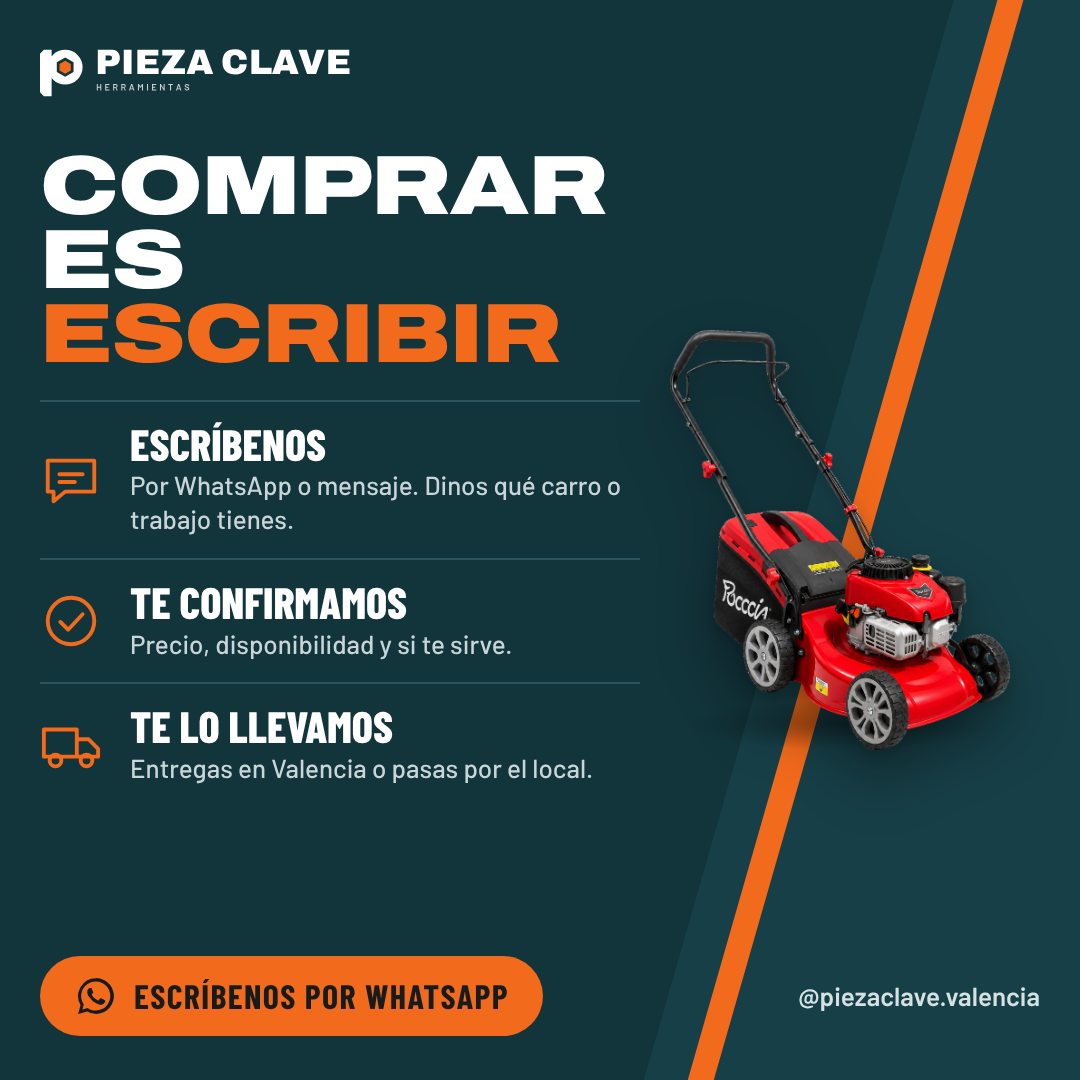
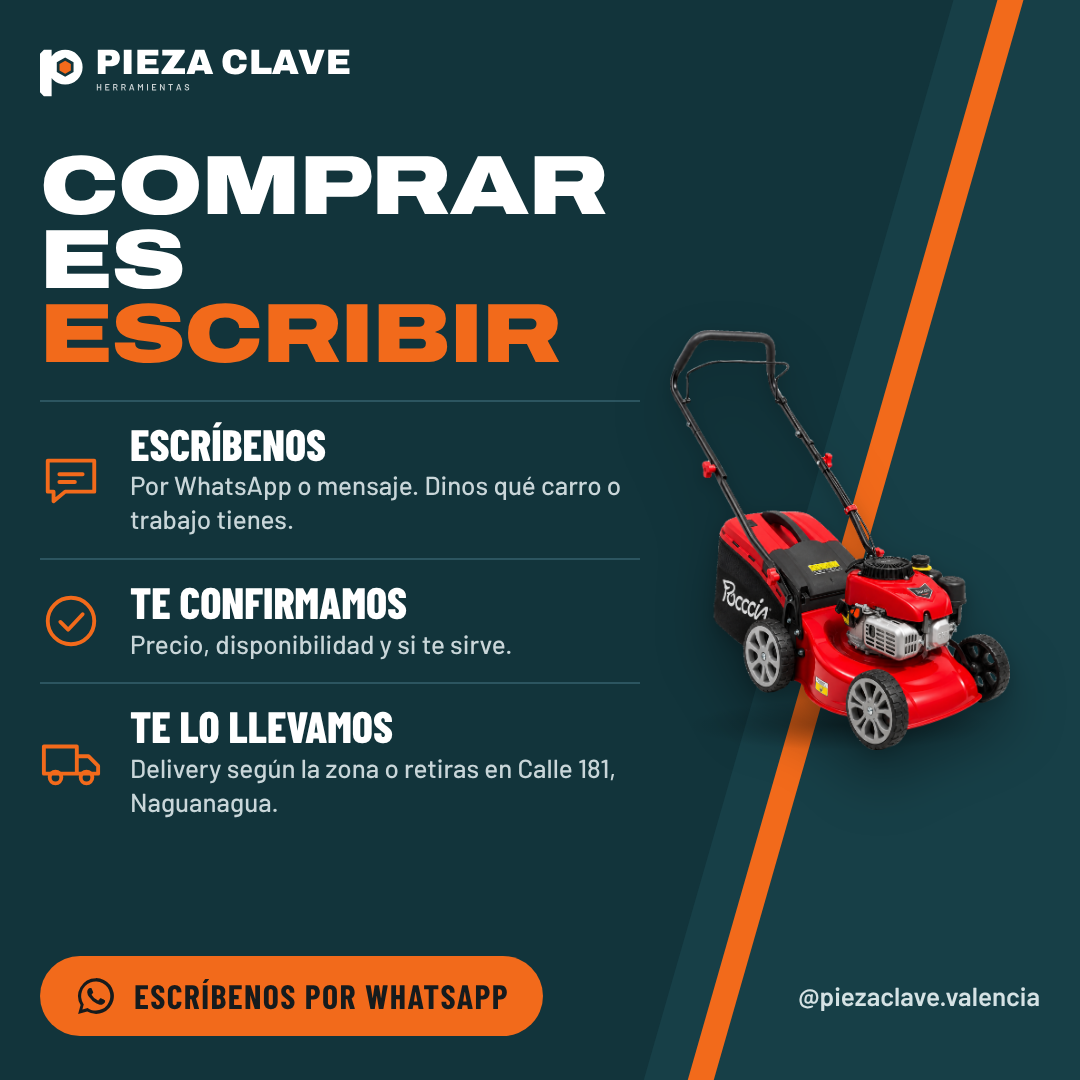
Add store location and zone-based delivery to posts, listings and guide
Claude-Session: https://claude.ai/code/session_0145Bkios2sph3drnPk8NrBE

Changed region(s): [[0.1222, 0.7028, 0.5806, 0.7639], [0.0306, 0.6722, 0.0917, 0.7333]]

diff --git a/pieza-clave/marketplace/textos-marketplace.md b/pieza-clave/marketplace/textos-marketplace.md
@@ -4,7 +4,7 @@ Cada producto tiene 3 imágenes en su carpeta (súbelas en este orden: 1-princip
 
 Con precio confirmado: gato 42$, adaptadores 20$, llaves 20$, reloj de refrigeración 38$. En los demás completa **[precio]** (y avísame para ponerlo también en las imágenes).
 
-Confirma el **estado** (puse "Nuevo") y que los datos coincidan con lo que tienes. Ubicación sugerida: Valencia, Carabobo.
+Confirma el **estado** (puse "Nuevo") y que los datos coincidan con lo que tienes. Ubicación de la publicación: Naguanagua, Carabobo.
 
 ## Gato hidráulico 2 toneladas — 42$
 Carpeta: `gato-hidraulico-2t/`
@@ -28,7 +28,8 @@ Gato hidráulico 2 toneladas.
 • También conocido como gato tipo caimán
 
 Precio: 42$
-📍 Valencia, Carabobo · Entregas en Valencia
+📍 Calle 181, Naguanagua, Carabobo (Multitienda JM)
+🚚 Delivery en Valencia con costo según la zona, o retiro en el local
 💬 Escríbenos y te decimos si le sirve a tu carro.
 Pieza Clave · @piezaclave.valencia
 ```
@@ -54,7 +55,8 @@ Juego de dados 108 piezas.
 • Trae matracas, extensiones, cardán y puntas
 
 Precio: [precio]
-📍 Valencia, Carabobo · Entregas en Valencia
+📍 Calle 181, Naguanagua, Carabobo (Multitienda JM)
+🚚 Delivery en Valencia con costo según la zona, o retiro en el local
 💬 Escríbenos y te decimos si le sirve a tu carro.
 Pieza Clave · @piezaclave.valencia
 ```
@@ -80,7 +82,8 @@ Llaves combinadas 14 piezas.
 • Ordenadas por medida en su estuche
 
 Precio: 20$
-📍 Valencia, Carabobo · Entregas en Valencia
+📍 Calle 181, Naguanagua, Carabobo (Multitienda JM)
+🚚 Delivery en Valencia con costo según la zona, o retiro en el local
 💬 Escríbenos y te decimos si le sirve a tu carro.
 Pieza Clave · @piezaclave.valencia
 ```
@@ -106,7 +109,8 @@ Multiplicador de fuerza para tornillos de rueda.
 • Viene completo en su maletín
 
 Precio: [precio]
-📍 Valencia, Carabobo · Entregas en Valencia
+📍 Calle 181, Naguanagua, Carabobo (Multitienda JM)
+🚚 Delivery en Valencia con costo según la zona, o retiro en el local
 💬 Escríbenos y te decimos si le sirve a tu carro.
 Pieza Clave · @piezaclave.valencia
 ```
@@ -132,7 +136,8 @@ Compresímetro de motor.
 • Para mecánicos y talleres
 
 Precio: [precio]
-📍 Valencia, Carabobo · Entregas en Valencia
+📍 Calle 181, Naguanagua, Carabobo (Multitienda JM)
+🚚 Delivery en Valencia con costo según la zona, o retiro en el local
 💬 Escríbenos y te armamos el presupuesto para tu taller.
 Pieza Clave · @piezaclave.valencia
 ```
@@ -159,7 +164,8 @@ Manómetros de refrigeración.
 • Incluye sus mangueras y sus conexiones
 
 Precio: 38$
-📍 Valencia, Carabobo · Entregas en Valencia
+📍 Calle 181, Naguanagua, Carabobo (Multitienda JM)
+🚚 Delivery en Valencia con costo según la zona, o retiro en el local
 💬 Escríbenos y te armamos el presupuesto para tu taller.
 Pieza Clave · @piezaclave.valencia
 ```
@@ -185,7 +191,8 @@ Engrasadora manual 400 cc.
 • Manguera para llegar a lo difícil
 
 Precio: [precio]
-📍 Valencia, Carabobo · Entregas en Valencia
+📍 Calle 181, Naguanagua, Carabobo (Multitienda JM)
+🚚 Delivery en Valencia con costo según la zona, o retiro en el local
 💬 Escríbenos y te armamos el presupuesto para tu taller.
 Pieza Clave · @piezaclave.valencia
 ```
@@ -211,7 +218,8 @@ Adaptadores de impacto 8 piezas.
 • En su estuche
 
 Precio: 20$
-📍 Valencia, Carabobo · Entregas en Valencia
+📍 Calle 181, Naguanagua, Carabobo (Multitienda JM)
+🚚 Delivery en Valencia con costo según la zona, o retiro en el local
 💬 Escríbenos y te armamos el presupuesto para tu taller.
 Pieza Clave · @piezaclave.valencia
 ```
@@ -237,7 +245,8 @@ Polipasto eléctrico con botonera.
 • Revisa la capacidad en la placa
 
 Precio: [precio]
-📍 Valencia, Carabobo · Entregas en Valencia
+📍 Calle 181, Naguanagua, Carabobo (Multitienda JM)
+🚚 Delivery en Valencia con costo según la zona, o retiro en el local
 💬 Escríbenos y te armamos el presupuesto para tu taller.
 Pieza Clave · @piezaclave.valencia
 ```
@@ -263,7 +272,8 @@ Cortadora de césped a gasolina.
 • Para terreno plano
 
 Precio: [precio]
-📍 Valencia, Carabobo · Entregas en Valencia
+📍 Calle 181, Naguanagua, Carabobo (Multitienda JM)
+🚚 Delivery en Valencia con costo según la zona, o retiro en el local
 💬 Mándanos una foto del terreno y te decimos cuál te sirve.
 Pieza Clave · @piezaclave.valencia
 ```
@@ -289,7 +299,8 @@ Desmalezadora a gasolina.
 • Trae cuchilla, nylon y arnés
 
 Precio: [precio]
-📍 Valencia, Carabobo · Entregas en Valencia
+📍 Calle 181, Naguanagua, Carabobo (Multitienda JM)
+🚚 Delivery en Valencia con costo según la zona, o retiro en el local
 💬 Mándanos una foto del terreno y te decimos cuál te sirve.
 Pieza Clave · @piezaclave.valencia
 ```
@@ -315,7 +326,8 @@ Motosierra a gasolina.
 • Trae guantes y protector de espada
 
 Precio: [precio]
-📍 Valencia, Carabobo · Entregas en Valencia
+📍 Calle 181, Naguanagua, Carabobo (Multitienda JM)
+🚚 Delivery en Valencia con costo según la zona, o retiro en el local
 💬 Mándanos una foto del terreno y te decimos cuál te sirve.
 Pieza Clave · @piezaclave.valencia
 ```
@@ -341,7 +353,8 @@ Taladro inalámbrico con maletín.
 • Viene completo en su maletín
 
 Precio: [precio]
-📍 Valencia, Carabobo · Entregas en Valencia
+📍 Calle 181, Naguanagua, Carabobo (Multitienda JM)
+🚚 Delivery en Valencia con costo según la zona, o retiro en el local
 💬 Cuéntanos qué vas a hacer y te decimos cuál te sirve.
 Pieza Clave · @piezaclave.valencia
 ```
@@ -367,7 +380,8 @@ Esmeril y taladro con cable.
 • Los dos con sus manuales
 
 Precio: [precio]
-📍 Valencia, Carabobo · Entregas en Valencia
+📍 Calle 181, Naguanagua, Carabobo (Multitienda JM)
+🚚 Delivery en Valencia con costo según la zona, o retiro en el local
 💬 Cuéntanos qué vas a hacer y te decimos cuál te sirve.
 Pieza Clave · @piezaclave.valencia
 ```

diff --git a/pieza-clave/cuentas/README.md b/pieza-clave/cuentas/README.md
@@ -10,6 +10,7 @@ Meta exige que una persona real cree y verifique las cuentas (correo, teléfono,
 3. Descripción: `Herramientas para el carro, el taller y el patio. Valencia, Carabobo. Escríbenos y te decimos cuál te sirve. Entregas en Valencia.`
 4. Foto de perfil: `../logo-v2/foto-perfil.png` · Portada: `portada-facebook.png` (esta carpeta).
 5. Botón de acción: **Enviar mensaje de WhatsApp** con el número de la tienda.
+6. Ubicación: `Calle 181, Naguanagua, Carabobo` (en Google Maps aparece como *Multitienda JM*: https://maps.app.goo.gl/8KeBiwpumrtoUD416). Delivery: costo según la zona.
 
 ### b) Instagram @piezaclave.valencia
 1. Crea la cuenta con el correo de la tienda; usuario `piezaclave.valencia`.
@@ -33,7 +34,7 @@ Las publicaciones de Marketplace salen de **tu perfil personal** (Meta no deja p
 1. **Marketplace → Crear publicación → Artículo en venta**.
 2. Sube las 3 imágenes de `../marketplace/<producto>/` en orden (1, 2, 3).
 3. Pega título, precio, categoría y descripción de `../marketplace/textos-marketplace.md`.
-4. Ubicación: Valencia. Publica.
+4. Ubicación: Naguanagua, Carabobo. Publica.
 
 ## 2. Lo que se automatiza
 
